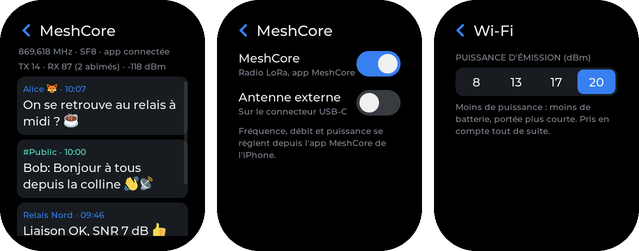
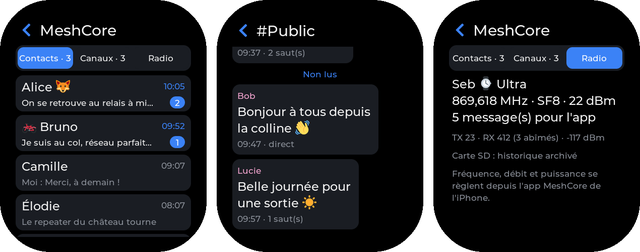
MeshCore app: one-line rows, sender names wrap, hop 0 shown as direct; docs and screenshots (0.2.15)
Claude-Session: https://claude.ai/code/session_01Nqsr6YvyYQrKBrcJ32Q6kD

diff --git a/main/app_mesh.c b/main/app_mesh.c
@@ -175,7 +175,7 @@ static void add_bubble(const mc_msg_t *m, bool at_top)
         text = mc_split_sender(m->text, who, sizeof who);
         if (who[0]) {
             lv_obj_t *h = ui_label(c, &font_small, name_color(who), "");
-            lv_label_set_long_mode(h, LV_LABEL_LONG_DOT);
+            lv_label_set_long_mode(h, LV_LABEL_LONG_WRAP);   /* DOT + largeur au contenu : « … » seul */
             lv_obj_set_style_max_width(h, UI_W * 82 / 100 - S(14), 0);
             emoji_label_set_text(h, who);
         }
@@ -189,7 +189,7 @@ static void add_bubble(const mc_msg_t *m, bool at_top)
     char meta[40], when[16];
     fmt_stamp(m->ts, when, sizeof when);
     if (out) snprintf(meta, sizeof meta, "%s", when);
-    else if (m->hops == 0xFF) snprintf(meta, sizeof meta, "%s · %s", when, _("direct"));
+    else if (m->hops == 0xFF || m->hops == 0) snprintf(meta, sizeof meta, "%s · %s", when, _("direct"));
     else snprintf(meta, sizeof meta, _("%s · %u saut(s)"), when, m->hops);
     lv_obj_t *mt = ui_label(c, &font_small, out ? lv_color_hex(0x93C5FD) : C_DIM, meta);
     if (out) lv_obj_set_style_text_align(mt, LV_TEXT_ALIGN_RIGHT, 0);
@@ -376,7 +376,7 @@ static void add_row(int i)
     snprintf(name, sizeof name, "%s%s", cv->kind == MC_CONV_CHANNEL && cv->name[0] != '#' ? "#" : "", cv->name);
     lv_obj_t *n = ui_label(r, &font_text, C_FG, "");
     lv_label_set_long_mode(n, LV_LABEL_LONG_DOT);
-    lv_obj_set_width(n, UI_W - S(16) - right);
+    lv_obj_set_size(n, UI_W - S(16) - right, lv_font_get_line_height(&font_text));   /* une ligne */
     lv_obj_align(n, LV_ALIGN_TOP_LEFT, 0, 0);
     emoji_label_set_text(n, name);
 
@@ -386,7 +386,7 @@ static void add_row(int i)
     for (char *p = prev; *p; p++) if (*p == '\n') *p = ' ';
     lv_obj_t *pv = ui_label(r, &font_small, cv->unread ? C_FG : C_DIM, "");
     lv_label_set_long_mode(pv, LV_LABEL_LONG_DOT);
-    lv_obj_set_width(pv, UI_W - S(16) - right);
+    lv_obj_set_size(pv, UI_W - S(16) - right, lv_font_get_line_height(&font_small));
     lv_obj_align(pv, LV_ALIGN_BOTTOM_LEFT, 0, 0);
     emoji_label_set_text(pv, prev);
 

diff --git a/docs/en/meshcore.md b/docs/en/meshcore.md
@@ -8,7 +8,7 @@ connects to it over Bluetooth to read and send messages, manage contacts and cha
 set the radio. The protocol is the upstream companion firmware (v1.18.0), so the app sees the
 watch as an ordinary MeshCore device.
 
-![MeshCore app, MeshCore settings, Wi-Fi settings](../img/meshcore.png)
+![MeshCore app: Contacts tab, channel conversation, Radio tab](../img/meshcore.png)
 
 ## Turning it on
 
@@ -33,18 +33,44 @@ MeshCore app** and saved on the watch; the watch shows them but does not edit th
 
 ## The MeshCore app on the watch
 
-The **MeshCore** app (first in the app list) shows:
+The **MeshCore** app (first in the app list) has three tabs:
 
-- a status line: frequency and spreading factor, then *app connected*, or the number of
-  messages waiting for the app;
-- a radio line: packets sent (`TX`, with failures), received (`RX`, with damaged packets),
-  and the noise floor in dBm. If the radio could not start, the line says why;
-- the last messages, newest first: direct messages under the contact's name, channel
-  messages under `#channel`. Emoji and any UTF-8 text display as on the phone.
+- **Contacts**: chat contacts and rooms, plus conversations whose contact was deleted since;
+- **Channels**: the channels set up in the iPhone app;
+- **Radio**: node name, frequency, SF and power, iPhone app state (connected, up to date, or
+  number of messages waiting for it), radio counters (`TX` with failures, `RX` with damaged
+  packets, noise floor) and SD card state.
 
-The watch keeps the last 64 messages (saved on flash, so they survive a restart) and shows 30. **Reading a message on the
-watch does not take it away from the app**: it stays in the app's queue (up to 256 messages)
-and is delivered when the app connects.
+Lists put conversations with **unread** messages first, then follow **alphabetical** order
+(leading emoji and punctuation ignored, case and accents ignored). Each row shows the last
+message, its time and a badge with the unread count; tab titles count unread messages too.
+Past 40 rows, *Show more* loads the rest.
+
+Touching a row **slides the conversation in**: bubbles, oldest at the top, sender name on
+channels, messages sent from the iPhone on the right, an *Unread* marker. *Older messages*
+goes further back (watch, then SD card). Back: the arrow, a swipe right or the button. Emoji
+and any UTF-8 text display as on the phone.
+
+### Read and unread
+
+- Opening a conversation on the watch marks it **read**.
+- A message the iPhone app has **fetched**, or a conversation you just **wrote** in from the
+  app, becomes read on the watch.
+- **Reading a message on the watch does not take it away from the app**: it stays in its
+  queue (up to 256 messages) and is delivered when the app connects. The MeshCore protocol
+  cannot tell the app a message was read, so it shows as new there.
+
+### History and SD card
+
+The watch keeps the **last 128 messages** (received, and sent from the app) with their read
+state, in memory and on flash: they survive a restart. With a **micro-SD card**, every message
+is also archived on it, one file per conversation in `/meshcore`, and older messages are read
+back from the card.
+
+The card is detected when inserted (within about 3 s), mounted at once and unmounted if pulled
+out. *Settings › SD card* shows the free space and offers **Eject card** (buffers written,
+then unmounted: it can be removed) and **Mount card again**. It must be formatted as FAT32.
+The watch log is also written to it every minute, in `/logs/YYYY-MM-DD.log`.
 
 When MeshCore is off, the app offers a button to turn it on.
 
@@ -71,5 +97,5 @@ down and the radio does not answer (details in [hardware notes](hardware.md)).
 
 ## Not yet
 
-Message alerts (banner and vibration), history on the SD card, low-power receive, and a
+Message alerts (banner and vibration), replying from the watch, low-power receive, and a
 TCP link for desktop clients.
